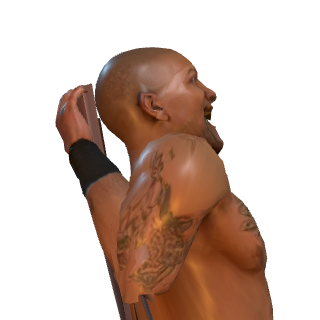
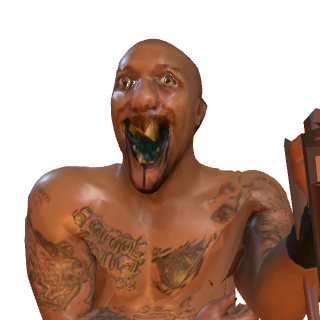
fix(bf): Brutal Fist fighters face front; their 23 select cards re-captured
Owner: the new Brutal Fist characters "don't have character cards". Their cards existed but showed a low side
profile. Every Brutal Fist mesh faces +X (rest renders: face at yaw 90, back at yaw 270). model-facing.json had
no record for them, and the feet cue only tells +Z from -Z, so the instance was never turned. Card and fight share
that instance, so they also fought side-on.

- tools/portraits/record_facing.py (new) records +X with the evidence for the 23 models verified by eye.
  assets.js already quarter-turns +X models (facingYaw).
- Their 23 cards are re-captured with tools/portraits/capture.mjs, the game's own preview in each fighter's bank
  stance. Now front-facing, head and shoulders framed.
- capture.mjs loads playwright through createRequire, like facing_probe.mjs.

Open, stated in docs/proof/2026-11-11/bf-facing/README.md:
- bf-jager and bf-tarzanian-devil have meshes ~0.95 m above their skeleton; a re-alignment comes next.
- bf-maime is hidden by the material gate (15 untextured parts) until her textures come in.
test/portraits.test.mjs passes.

Claude-Session: https://claude.ai/code/session_01CLThWtX97Fi7zFw5wnvydL

diff --git a/tools/portraits/record_facing.py b/tools/portraits/record_facing.py
@@ -1,0 +1,61 @@
+#!/usr/bin/env python3
+"""tools/portraits/record_facing.py: record which way models' meshes face in game/assets/models/model-facing.json.
+
+The game assumes a mesh faces +Z. assets.js turns a '-Z' model a half turn and a '+X' / '-X' model a quarter turn
+(facingYaw) when it creates the instance that both the select card and the fight use. An unlisted model falls back
+to a feet cue that only tells +Z from -Z, so a sideways (+X) mesh is never turned: its card shows a profile and it
+fights side-on.
+
+Read the facing BY EYE first (tools/portraits/facing_probe.mjs, rest pose, camera at yaw 0/90/180/270: the yaw that
+shows the face is the facing; 90 = +X, 270 = -X, 180 = -Z). Then record it here with the evidence:
+
+    python3 tools/portraits/record_facing.py --facing +X --ids bf-bannon,bf-titan \\
+        --why "rest renders: face at yaw 90, back at yaw 270" --proof docs/proof/<date>/<dir>/sheet.png
+
+The file is rewritten in its own JSON layout (byte-identical apart from the new entries). An existing record is
+only replaced with --replace.
+"""
+import argparse
+import json
+import os
+import sys
+
+FILE = os.path.join(os.path.dirname(os.path.dirname(os.path.dirname(os.path.abspath(__file__)))),
+                    'game/assets/models/model-facing.json')
+
+
+def layout(data, raw):
+    for ind in (2, 1, 4):
+        for ea in (True, False):
+            for nl in ('\n', ''):
+                if json.dumps(data, indent=ind, ensure_ascii=ea) + nl == raw:
+                    return ind, ea, nl
+    raise SystemExit('cannot reproduce %s byte for byte; refusing to rewrite it' % FILE)
+
+
+def main():
+    ap = argparse.ArgumentParser(description=__doc__.split('\n')[0])
+    ap.add_argument('--facing', required=True, choices=['+Z', '-Z', '+X', '-X'])
+    ap.add_argument('--ids', required=True)
+    ap.add_argument('--why', required=True)
+    ap.add_argument('--proof', required=True)
+    ap.add_argument('--date', default='2026-11-11')
+    ap.add_argument('--replace', action='store_true')
+    a = ap.parse_args()
+    raw = open(FILE, encoding='utf-8').read()
+    data = json.loads(raw)
+    fmt = layout(data, raw)
+    models, notes = data['models'], data.setdefault('corrections', {})
+    changed = []
+    for i in [x for x in a.ids.split(',') if x]:
+        if i in models and not a.replace:
+            sys.exit('%s already recorded as %s (use --replace)' % (i, models[i]))
+        models[i] = a.facing
+        notes[i] = '%s: unlisted -> %s. %s Proof: %s.' % (a.date, a.facing, a.why, a.proof)
+        changed.append(i)
+    open(FILE, 'w', encoding='utf-8').write(json.dumps(data, indent=fmt[0], ensure_ascii=fmt[1]) + fmt[2])
+    print('recorded %s for %d models: %s' % (a.facing, len(changed), ', '.join(changed)))
+
+
+if __name__ == '__main__':
+    main()
